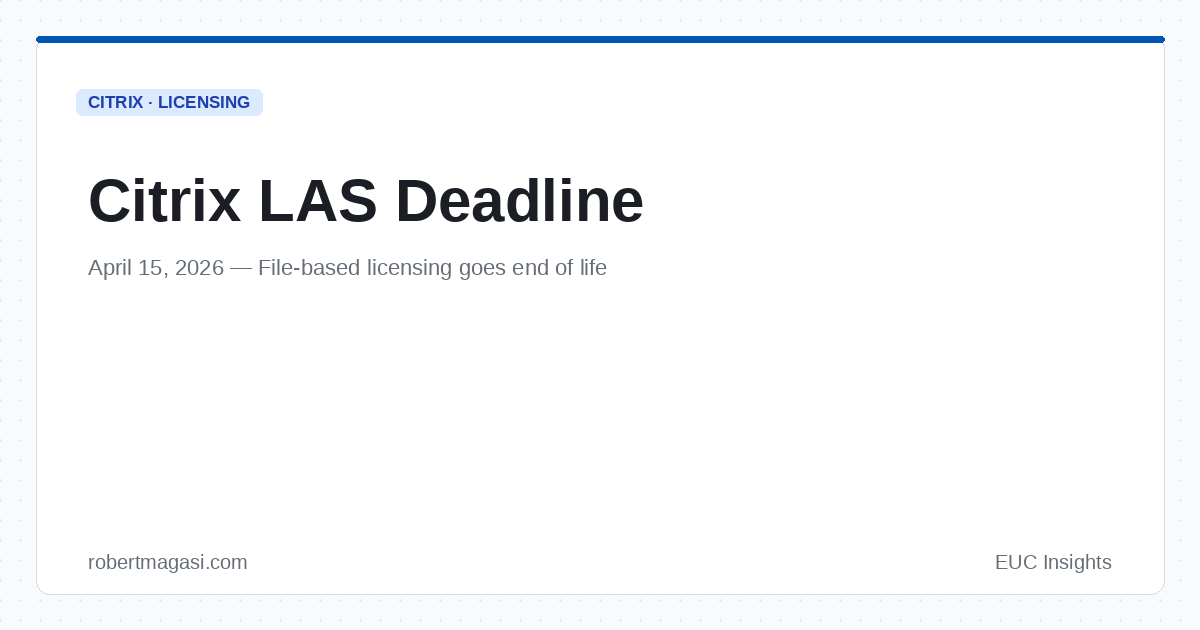
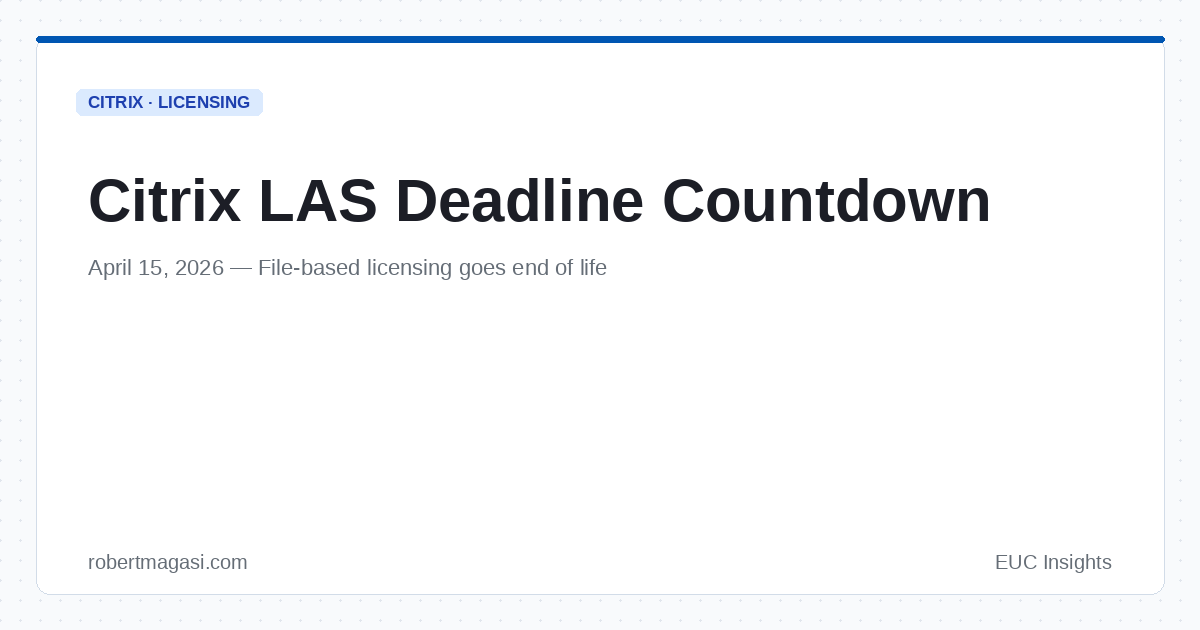
Update LAS post: new title, full-width countdown, updated OG image

Changed region(s): [[0.555, 0.2714, 0.8325, 0.3619]]

diff --git a/_posts/2026-04-14-citrix-las-deadline-april-15-2026.md b/_posts/2026-04-14-citrix-las-deadline-april-15-2026.md
@@ -1,5 +1,5 @@
 ---
-title: "Citrix LAS Deadline — April 15, 2026"
+title: "Citrix LAS Deadline Countdown"
 date: 2026-04-14 09:00:00 +0200
 author: robert
 categories: ["Citrix"]
@@ -8,32 +8,32 @@ description: "Citrix file-based licensing goes end of life on April 15, 2026. En
 toc: false
 image:
   path: /assets/img/posts/og-citrix-las-deadline.png
-  alt: "Citrix LAS Deadline — April 15, 2026"
+  alt: "Citrix LAS Deadline Countdown"
 ---
 
-Citrix file-based licensing goes end of life on **April 15, 2026**. Environments that haven't migrated to the License Activation Service (LAS) can have issues. Not clear what will happen with environments which are not updated to LAS ready versions. 
+Citrix file-based licensing goes end of life on **April 15, 2026**. Environments that haven't migrated to the License Activation Service (LAS) can have issues. Not clear what will happen with environments which are not updated to LAS ready versions.
 
-<div style="margin:2.5rem 0;text-align:center;">
-  <div id="las-timer" style="display:inline-flex;gap:1rem;flex-wrap:wrap;justify-content:center;">
-    <div style="background:#f8fafc;border:2px solid #0056b2;border-radius:10px;padding:1rem 1.5rem;min-width:90px;">
-      <div id="cd-d" style="font-size:2.8rem;font-weight:900;color:#0056b2;line-height:1;">--</div>
-      <div style="font-size:0.75rem;font-weight:700;letter-spacing:.08em;text-transform:uppercase;color:#656d76;margin-top:4px;">Days</div>
+<div style="margin:2.5rem 0;">
+  <div id="las-timer" style="display:flex;gap:1rem;width:100%;">
+    <div style="flex:1;background:#f8fafc;border:2px solid #0056b2;border-radius:10px;padding:1.5rem 1rem;text-align:center;">
+      <div id="cd-d" style="font-size:4rem;font-weight:900;color:#0056b2;line-height:1;">--</div>
+      <div style="font-size:0.8rem;font-weight:700;letter-spacing:.08em;text-transform:uppercase;color:#656d76;margin-top:6px;">Days</div>
     </div>
-    <div style="background:#f8fafc;border:2px solid #0056b2;border-radius:10px;padding:1rem 1.5rem;min-width:90px;">
-      <div id="cd-h" style="font-size:2.8rem;font-weight:900;color:#0056b2;line-height:1;">--</div>
-      <div style="font-size:0.75rem;font-weight:700;letter-spacing:.08em;text-transform:uppercase;color:#656d76;margin-top:4px;">Hours</div>
+    <div style="flex:1;background:#f8fafc;border:2px solid #0056b2;border-radius:10px;padding:1.5rem 1rem;text-align:center;">
+      <div id="cd-h" style="font-size:4rem;font-weight:900;color:#0056b2;line-height:1;">--</div>
+      <div style="font-size:0.8rem;font-weight:700;letter-spacing:.08em;text-transform:uppercase;color:#656d76;margin-top:6px;">Hours</div>
     </div>
-    <div style="background:#f8fafc;border:2px solid #0056b2;border-radius:10px;padding:1rem 1.5rem;min-width:90px;">
-      <div id="cd-m" style="font-size:2.8rem;font-weight:900;color:#0056b2;line-height:1;">--</div>
-      <div style="font-size:0.75rem;font-weight:700;letter-spacing:.08em;text-transform:uppercase;color:#656d76;margin-top:4px;">Minutes</div>
+    <div style="flex:1;background:#f8fafc;border:2px solid #0056b2;border-radius:10px;padding:1.5rem 1rem;text-align:center;">
+      <div id="cd-m" style="font-size:4rem;font-weight:900;color:#0056b2;line-height:1;">--</div>
+      <div style="font-size:0.8rem;font-weight:700;letter-spacing:.08em;text-transform:uppercase;color:#656d76;margin-top:6px;">Minutes</div>
     </div>
-    <div style="background:#f8fafc;border:2px solid #0056b2;border-radius:10px;padding:1rem 1.5rem;min-width:90px;">
-      <div id="cd-s" style="font-size:2.8rem;font-weight:900;color:#0056b2;line-height:1;">--</div>
-      <div style="font-size:0.75rem;font-weight:700;letter-spacing:.08em;text-transform:uppercase;color:#656d76;margin-top:4px;">Seconds</div>
+    <div style="flex:1;background:#f8fafc;border:2px solid #0056b2;border-radius:10px;padding:1.5rem 1rem;text-align:center;">
+      <div id="cd-s" style="font-size:4rem;font-weight:900;color:#0056b2;line-height:1;">--</div>
+      <div style="font-size:0.8rem;font-weight:700;letter-spacing:.08em;text-transform:uppercase;color:#656d76;margin-top:6px;">Seconds</div>
     </div>
   </div>
-  <div id="las-expired" style="display:none;font-size:1.6rem;font-weight:900;color:#d1242f;letter-spacing:.04em;padding:1.5rem;">DEADLINE PASSED</div>
-  <div style="margin-top:1rem;font-size:0.8rem;color:#656d76;">
+  <div id="las-expired" style="display:none;font-size:2rem;font-weight:900;color:#d1242f;letter-spacing:.04em;padding:1.5rem;text-align:center;">DEADLINE PASSED</div>
+  <div style="margin-top:0.75rem;font-size:0.8rem;color:#656d76;text-align:center;">
     Counting to April 15, 2026 00:00 UTC — exact cutoff time not published by Citrix.
   </div>
 </div>
